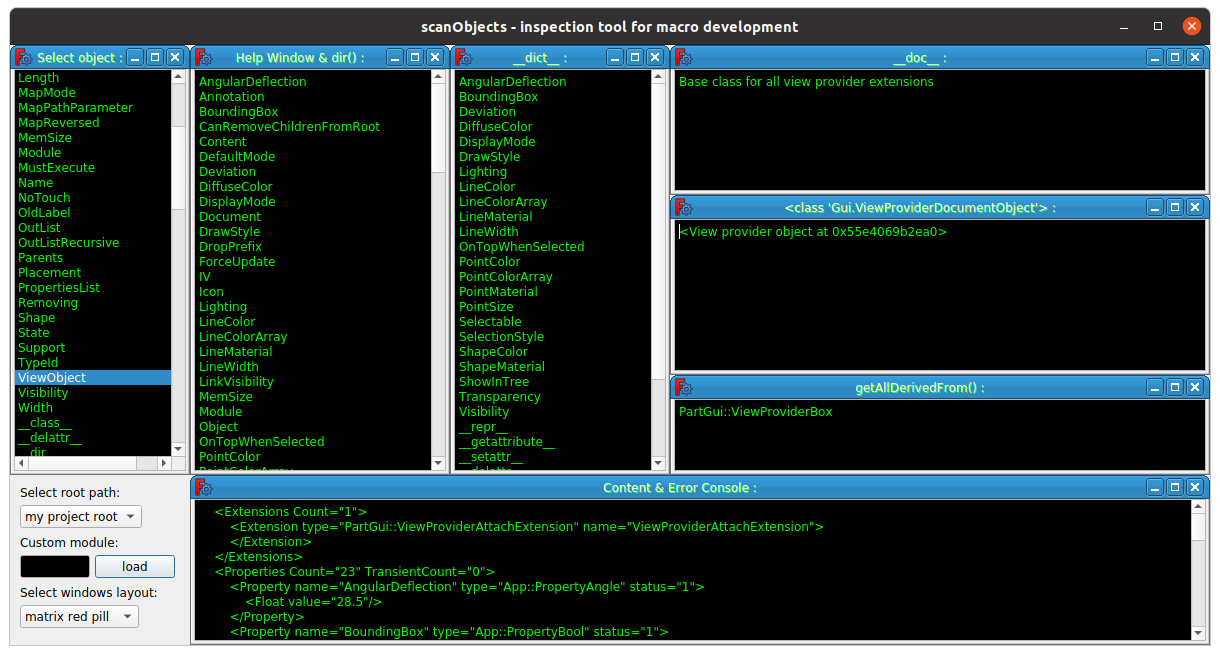
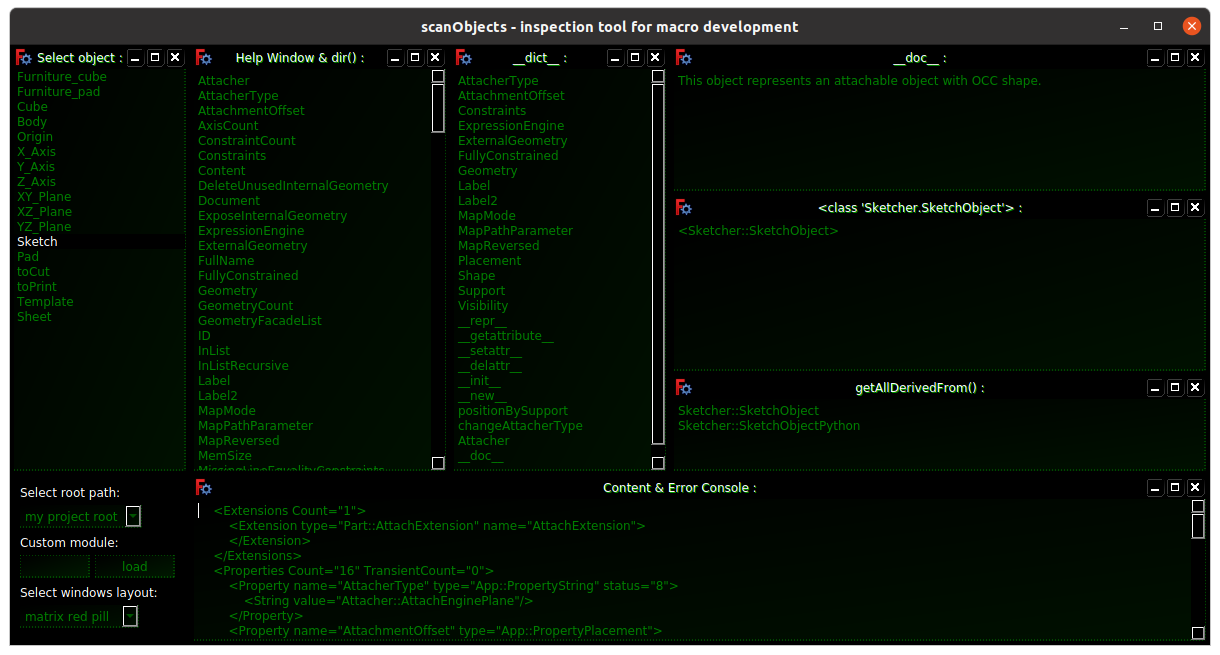
matrix view colors

Changed region(s): [[0.0, 0.0611, 0.9967, 1.0]]

diff --git a/scanObjects.py b/scanObjects.py
@@ -42,7 +42,6 @@ def showQtGUI():
 		# ############################################################################
 
 		gDefaultRoot = ""
-		gPalette = ""
 		gModeType = "normal"
 		gW = 1200 # width
 		gH = 600 # hight
@@ -251,8 +250,8 @@ def showQtGUI():
 			# set default layout
 			self.setWindowsLayout("all windows")
 
-			# save colors
-			self.gPalette = self.palette()
+			# init colors
+			self.setWindowsLayout("matrix blue pill")
 			
 		# ############################################################################
 		# actions
@@ -370,15 +369,56 @@ def showQtGUI():
 				self.o6.show()
 
 			if selectedText == "matrix red pill":
-				p = QtGui.QPalette()
-				p.setColor(p.Base, QtGui.QColor(0, 0, 0))
-				p.setColor(p.Text, QtGui.QColor(0, 255, 0))
-				self.setPalette(p)
+
+				# decoration 
+				QtCSS =  '''
+					QDialog, QScrollBar {
+						background-color: black;
+					}
+
+					QMdiSubWindow {
+						color: green;
+						background-color: black;
+						selection-color: white;
+						selection-background-color: black;
+					}
+
+					QTextEdit, QListView, QComboBox {
+						color: green;
+						background-color: qlineargradient( 
+							x1: 0, y1: 0, 
+							x2: 15, y2: 15,
+							stop: 0 #000000, stop: 1 #00FF00
+						);
+						border: 0px;
+						border-right: 1px dotted green;
+						border-bottom: 1px dotted green;
+						selection-color: white;
+						selection-background-color: black;
+					}
+
+					QLabel { 
+						color: white;
+						background-color: black;
+					}
+										
+					QLineEdit, QPushButton {
+						color: green;
+						background-color: qlineargradient( 
+							x1: 0, y1: 0, 
+							x2: 10, y2: 10,
+							stop: 0 #000000, stop: 1 #00FF00
+						);
+						border: 1px dotted green;
+					}
+				'''
+
+				self.setStyleSheet(QtCSS)
 				self.gModeType = "matrix"
 				self.resetOutputs()
 				
 			if selectedText == "matrix blue pill":
-				self.setPalette(self.gPalette)
+				self.setStyleSheet("")
 				self.gModeType = "normal"
 				self.resetOutputs()
 
